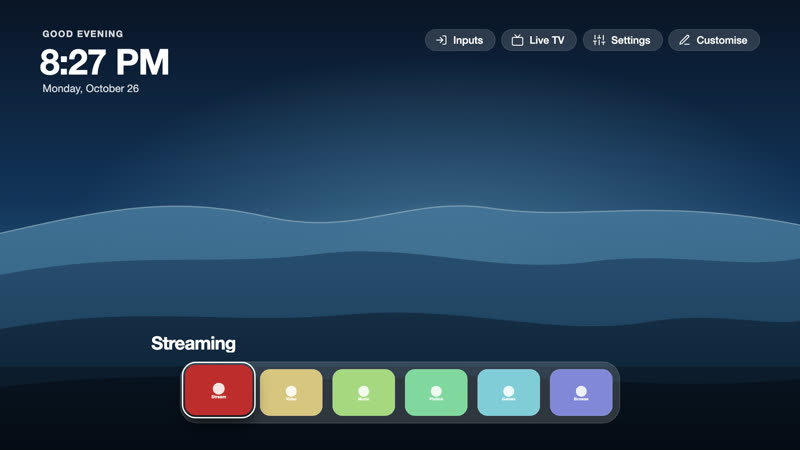
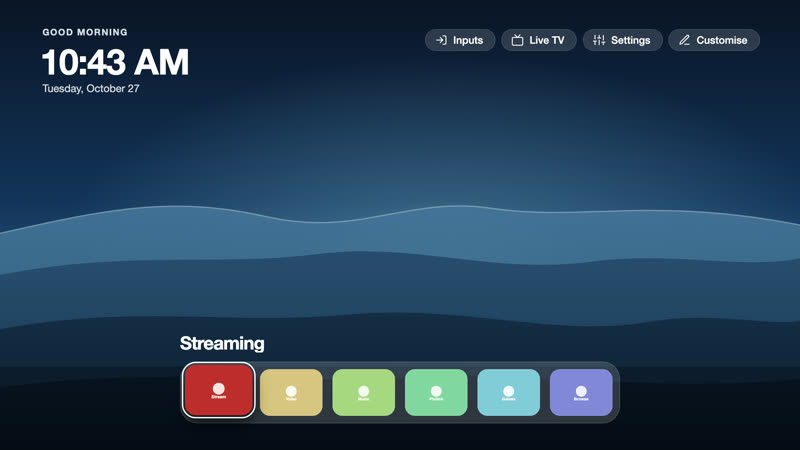
Lock Screen: line the focused app's name up with the dock
The dock can be centred (dock.align center), and then its left edge
depends on how many apps are in it: fewer apps make it narrower and
sit it further in. shelf.x is a fixed margin, so the big app name
could only be lined up with the dock for one app count; with any other
number of apps it drifted off to the side.

Adds shelf.dockAlign (default off, so no other theme changes): when on,
the launcher lines the name up with the dock's left edge, worked out
from the number of apps actually shown (their width, the gap and the
panel padding), with no layout read. The name then tracks the dock
whatever the app count, in a left-, right- or centre-aligned dock.
shelf.align still sets the text alignment, and shelf.show still hides
the name outright.

Lock Screen turns it on. Hiding the name was already possible with
shelf.show; this is only about lining it up when it is shown.

Schema, docs, the theme preview, tests and the recorded API reply
updated.

Changed region(s): [[0.0312, 0.0622, 0.25, 0.2178], [0.1875, 0.7467, 0.3438, 0.7778]]

diff --git a/app/index.html b/app/index.html
@@ -2330,7 +2330,20 @@ function inputTile(d, a) {
   return d;
 }
 /* ---------- theme: the service resolves the chosen theme (manager > Theme) into CSS variables and a few numbers ---------- */
-var TH0 = { cols: 10, tileH: 151, gapY: 26, gt: 350, viewH: 780, dockN: 4, overlay: false, push: null, overlayH: 510, glow: '', slots: [] },
+var TH0 = {
+    cols: 10,
+    tileH: 151,
+    gapY: 26,
+    gt: 350,
+    viewH: 780,
+    dockN: 4,
+    overlay: false,
+    push: null,
+    overlayH: 510,
+    glow: '',
+    slots: [],
+    shelfDock: null,
+  },
   TH = TH0,
   themeKeys = [],
   themeAttrs = ['data-bar', 'data-labels', 'data-clock', 'data-grid', 'data-galign'];
@@ -2386,7 +2399,31 @@ function applyTheme(t) {
     overlayH: t.overlayH || 510,
     glow: t.glowRgb || '',
     slots: t.slots || [],
+    shelfDock: t.shelf || null,
   };
+  /* the name follows the dock (shelf.dockAlign) only while that is on; otherwise it keeps the theme's own margin (--name-x) */
+  var sh = $('shelf');
+  sh.style.paddingLeft = '';
+  sh.style.paddingRight = '';
+}
+
+/* line the app name up with the left edge of the dock (shelf.dockAlign). The dock is centred on a width that depends on how many apps
+   are shown, so its left edge is not known until rebuild: work it out from the tile count (n), the tile width, the gap and the panel
+   padding, with no layout read, and set the name's leading padding to match. Exact for a centred dock in either text direction. */
+function placeShelf(n) {
+  var sh = $('shelf'),
+    s = TH.shelfDock;
+  sh.style.paddingLeft = '';
+  sh.style.paddingRight = '';
+  if (!s || !s.dock || n < 1) return;
+  var W = n * s.w + (n - 1) * s.gap + 2 * s.pad,
+    left;
+  if (s.align === 'left') left = s.x;
+  else if (s.align === 'right') left = 1920 - s.x - W;
+  else left = Math.round((1920 - W) / 2);
+  left = Math.max(0, left);
+  if (document.documentElement.getAttribute('dir') === 'rtl') sh.style.paddingRight = Math.max(0, 1920 - left - W) + 'px';
+  else sh.style.paddingLeft = left + 'px';
 }
 
 function setFocus(nr, nc, first) {
@@ -4096,6 +4133,7 @@ function rebuild() {
   /* cards come first, so the ones OK can switch (a Home Assistant light) join the top row */
   drawCards();
   var top = tb.concat(cardTargets());
+  placeShelf(d.length);
   rows = [top, d.length ? d : top];
   for (var i = 0; i < g.length; i += TH.cols) rows.push(g.slice(i, i + TH.cols));
   var nr = Math.min(r, rows.length - 1),

diff --git a/app/src/js/theme.js b/app/src/js/theme.js
@@ -1,5 +1,18 @@
 /* ---------- theme: the service resolves the chosen theme (manager > Theme) into CSS variables and a few numbers ---------- */
-var TH0 = { cols: 10, tileH: 151, gapY: 26, gt: 350, viewH: 780, dockN: 4, overlay: false, push: null, overlayH: 510, glow: '', slots: [] },
+var TH0 = {
+    cols: 10,
+    tileH: 151,
+    gapY: 26,
+    gt: 350,
+    viewH: 780,
+    dockN: 4,
+    overlay: false,
+    push: null,
+    overlayH: 510,
+    glow: '',
+    slots: [],
+    shelfDock: null,
+  },
   TH = TH0,
   themeKeys = [],
   themeAttrs = ['data-bar', 'data-labels', 'data-clock', 'data-grid', 'data-galign'];
@@ -55,7 +68,31 @@ function applyTheme(t) {
     overlayH: t.overlayH || 510,
     glow: t.glowRgb || '',
     slots: t.slots || [],
+    shelfDock: t.shelf || null,
   };
+  /* the name follows the dock (shelf.dockAlign) only while that is on; otherwise it keeps the theme's own margin (--name-x) */
+  var sh = $('shelf');
+  sh.style.paddingLeft = '';
+  sh.style.paddingRight = '';
+}
+
+/* line the app name up with the left edge of the dock (shelf.dockAlign). The dock is centred on a width that depends on how many apps
+   are shown, so its left edge is not known until rebuild: work it out from the tile count (n), the tile width, the gap and the panel
+   padding, with no layout read, and set the name's leading padding to match. Exact for a centred dock in either text direction. */
+function placeShelf(n) {
+  var sh = $('shelf'),
+    s = TH.shelfDock;
+  sh.style.paddingLeft = '';
+  sh.style.paddingRight = '';
+  if (!s || !s.dock || n < 1) return;
+  var W = n * s.w + (n - 1) * s.gap + 2 * s.pad,
+    left;
+  if (s.align === 'left') left = s.x;
+  else if (s.align === 'right') left = 1920 - s.x - W;
+  else left = Math.round((1920 - W) / 2);
+  left = Math.max(0, left);
+  if (document.documentElement.getAttribute('dir') === 'rtl') sh.style.paddingRight = Math.max(0, 1920 - left - W) + 'px';
+  else sh.style.paddingLeft = left + 'px';
 }
 
 function setFocus(nr, nc, first) {

diff --git a/helper/themeschema.js b/helper/themeschema.js
@@ -98,6 +98,13 @@ const SCHEMA = [
   ['shelf.x', 'int', [0, 900], 96, 'Margin on both sides, in px.'],
   ['shelf.y', 'int', [0, 900], 150, 'Distance from the top edge, in px.'],
   ['shelf.scale', 'num', [0.4, 1.6], 1, 'Scale of the name.'],
+  [
+    'shelf.dockAlign',
+    'bool',
+    null,
+    false,
+    'Line the name up with the left edge of the dock, even when the dock is centred and the number of apps changes its width. Overrides `shelf.x` (`shelf.align` still sets the text alignment). Set `shelf.show` off to hide the name instead.',
+  ],
   ['dock.anchor', 'enum', TOPBOT, 'top', 'Which screen edge `dock.y` counts from.'],
   ['dock.align', 'enum', POS, 'left', 'Which side `dock.x` counts from; `center` centres the dock.'],
   ['dock.x', 'int', [0, 900], 96, 'Distance from that side, in px. Not used when centred.'],
@@ -461,6 +468,9 @@ function resolve(t, accent) {
       };
     });
   // only a theme with a typeface has this key, so the replies for the other themes stay as they were
+  // only a theme that lines the name up with the dock carries this; the dock's own width at a given app count is worked out on the page
+  // (the number of apps shown, not dock.count), so the name tracks the dock's left edge however many apps are present
+  if (v['shelf.dockAlign']) out.shelf = { dock: true, align: v['dock.align'], x: v['dock.x'], w: v['dock.w'], gap: v['dock.gap'], pad };
   if (v['type.fontFile']) out.font = { id: v.fontTheme || t.id, file: v['type.fontFile'] };
   return out;
 }

diff --git a/tools/test/theme.test.js b/tools/test/theme.test.js
@@ -112,6 +112,23 @@ run(async () => {
     'dock.tileFrost sets the frost and dock.tileFrostColor becomes its rgb tint'
   );
   ok(plain.vars['--dock-tile-frost'] === '0' && plain.vars['--dock-frost-rgb'] === '255,255,255', 'by default there is no dock-tile frost');
+  // shelf.dockAlign: the name follows the dock, so the dock's geometry is carried to the page; off by default, so other replies are unchanged
+  const nameDock = themeMod.resolve(
+    themeMod.normalize(
+      { shelf: { dockAlign: true }, dock: { align: 'center', x: 40, w: 150, gap: 24, panel: 0.2, panelPad: 18 } },
+      'namedock'
+    )
+  );
+  ok(
+    nameDock.shelf &&
+      nameDock.shelf.dock === true &&
+      nameDock.shelf.align === 'center' &&
+      nameDock.shelf.w === 150 &&
+      nameDock.shelf.gap === 24 &&
+      nameDock.shelf.pad === 18,
+    'shelf.dockAlign carries the dock width, gap and panel padding to the page'
+  );
+  ok(plain.shelf === undefined, 'a theme that does not line the name up with the dock has no shelf key');
   // slots for cards: checked and clamped, placed like the clock, kept by a theme that extends it, and only in replies of themes with slots
   const slotted = themeMod.normalize(
     {

diff --git a/app/src/js/layout.js b/app/src/js/layout.js
@@ -49,6 +49,7 @@ function rebuild() {
   /* cards come first, so the ones OK can switch (a Home Assistant light) join the top row */
   drawCards();
   var top = tb.concat(cardTargets());
+  placeShelf(d.length);
   rows = [top, d.length ? d : top];
   for (var i = 0; i < g.length; i += TH.cols) rows.push(g.slice(i, i + TH.cols));
   var nr = Math.min(r, rows.length - 1),

diff --git a/docs/themes.md b/docs/themes.md
@@ -183,6 +183,7 @@ when the focus moves down into it (Back or Up closes it); a dock at the top leav
 | `shelf.x` | 0 to 900 | `96` | Margin on both sides, in px. |
 | `shelf.y` | 0 to 900 | `150` | Distance from the top edge, in px. |
 | `shelf.scale` | 0.4 to 1.6 | `1` | Scale of the name. |
+| `shelf.dockAlign` | `true` or `false` | `false` | Line the name up with the left edge of the dock, even when the dock is centred and the number of apps changes its width. Overrides `shelf.x` (`shelf.align` still sets the text alignment). Set `shelf.show` off to hide the name instead. |
 | **dock** | | | |
 | `dock.anchor` | `top`, `bottom` | `top` | Which screen edge `dock.y` counts from. |
 | `dock.align` | `left`, `center`, `right` | `left` | Which side `dock.x` counts from; `center` centres the dock. |
